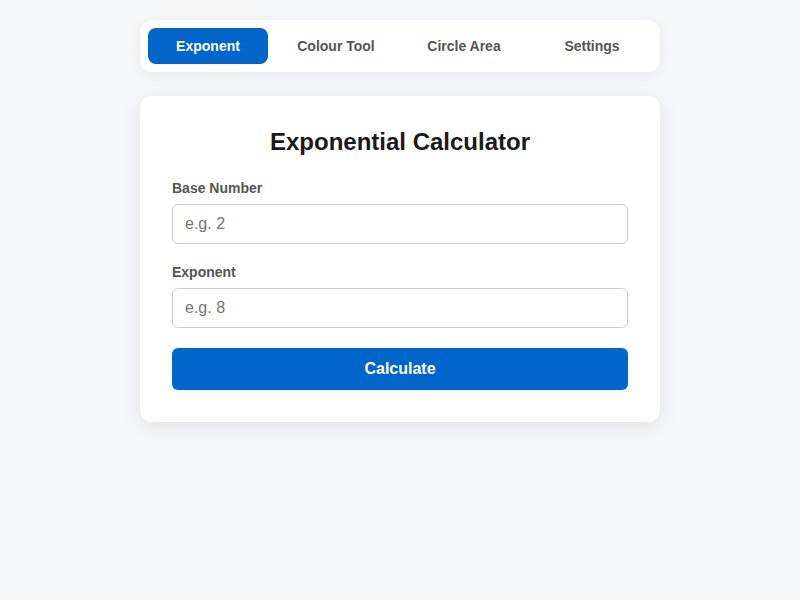
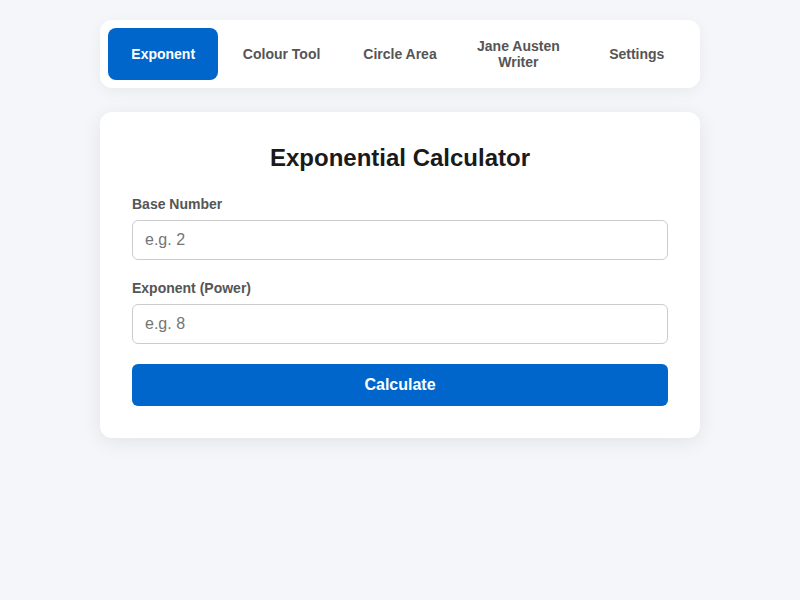
Rename Austen Writer to Jane Austen Writer

Changed region(s): [[0.1562, 0.3, 0.8438, 0.69], [0.125, 0.03, 0.8438, 0.15], [0.3125, 0.21, 0.6562, 0.3]]

diff --git a/public/index.html b/public/index.html
@@ -337,7 +337,7 @@
     <button class="nav-btn active" data-tab="exponent-tab">Exponent</button>
     <button class="nav-btn" data-tab="colour-tab">Colour Tool</button>
     <button class="nav-btn" data-tab="circle-tab">Circle Area</button>
-    <button class="nav-btn" data-tab="austen-tab">Austen Writer</button>
+    <button class="nav-btn" data-tab="austen-tab">Jane Austen Writer</button>
     <button class="nav-btn" data-tab="settings-tab">Settings</button>
   </nav>
 
@@ -397,9 +397,9 @@
       </div>
     </div>
 
-    <!-- Austen Writer Tool -->
+    <!-- Jane Austen Writer Tool -->
     <div id="austen-tab" class="tab-content">
-      <h1>Austen Writer</h1>
+      <h1>Jane Austen Writer</h1>
       <p class="description">Generate paragraphs in the style of Jane Austen's <em>Pride and Prejudice</em> using N-gram language models.</p>
       <div class="button-group">
         <button type="button" class="action-btn" id="austen-bigram-btn">bigram</button>
@@ -441,7 +441,7 @@
             <option value="exponent-tab">Exponential Calculator</option>
             <option value="colour-tab">Colour Art Generator</option>
             <option value="circle-tab">Circle Area Calculator</option>
-            <option value="austen-tab">Austen Writer</option>
+            <option value="austen-tab">Jane Austen Writer</option>
             <option value="settings-tab">Settings</option>
           </select>
         </div>
@@ -685,7 +685,7 @@
       }
     });
 
-    // Austen Writer Frontend Logic
+    // Jane Austen Writer Frontend Logic
     let austenSourceText = null;
     let austenTokens = null;
     const austenNGramModels = {};
@@ -796,7 +796,7 @@
           }
         }
 
-        resultTitle.textContent = `Austen Writer (${type})`;
+        resultTitle.textContent = `Jane Austen Writer (${type})`;
         resultValue.textContent = paragraph;
       } catch (err) {
         resultContainer.className = 'result-box error';

diff --git a/src/austenWriter.js b/src/austenWriter.js
@@ -188,7 +188,7 @@ function generateTextFromModel(model, n, sentenceCount = 5) {
 }
 
 /**
- * Main function to generate Austen Writer paragraph.
+ * Main function to generate Jane Austen Writer paragraph.
  * @param {string|number} type - 'bigram', 'trigram', 'tetragram' (or 2, 3, 4).
  * @param {number} [sentenceCount=5] - Number of sentences to generate.
  * @param {string} [sourceText] - Optional source text override.

diff --git a/tests/austenWriter.test.js b/tests/austenWriter.test.js
@@ -6,7 +6,7 @@ const {
   clearCache,
 } = require('../src/austenWriter');
 
-describe('Austen Writer Module', () => {
+describe('Jane Austen Writer Module', () => {
   beforeEach(() => {
     clearCache();
   });

diff --git a/README.md b/README.md
@@ -19,7 +19,7 @@ The application features four main functions accessible via both Node.js exports
 3. **Colour Art Generator**
    - Generates generative canvas artwork by blending user-selected color palettes with randomized geometric shapes, circles, polygons, and ribbons.
 
-4. **Austen Writer (`generateAustenText`)**
+4. **Jane Austen Writer (`generateAustenText`)**
    - Generates paragraphs (approximately 5 sentences long) in the style of Jane Austen using N-gram language modeling (bigrams, trigrams, tetragrams).
    - Automatically downloads and caches the full source text of *Pride and Prejudice* from Project Gutenberg (`https://www.gutenberg.org/files/1342/1342-0.txt`).
    - Caches tokenized text and N-gram frequency models for fast response times.
@@ -71,7 +71,7 @@ console.log(calculatePower(2, 3)); // Outputs: 8
 // 2. Circle area calculation
 console.log(calculateCircleArea(5)); // Outputs: 78.5398...
 
-// 3. Austen Writer paragraph generation
+// 3. Jane Austen Writer paragraph generation
 async function demoAusten() {
   const paragraph = await generateAustenText('trigram', 5);
   console.log(paragraph);
@@ -97,7 +97,7 @@ The test suite verifies:
 - Exponential calculation operations and error handling (`tests/index.test.js`)
 - Circle area calculations and boundary checks (`tests/index.test.js`)
 - Preferences and settings validation utilities (`tests/settings.test.js`)
-- Austen Writer tokenization, N-gram model construction, parameter validation, and text generation (`tests/austenWriter.test.js`)
+- Jane Austen Writer tokenization, N-gram model construction, parameter validation, and text generation (`tests/austenWriter.test.js`)
 
 ## CI/CD Workflow
 
